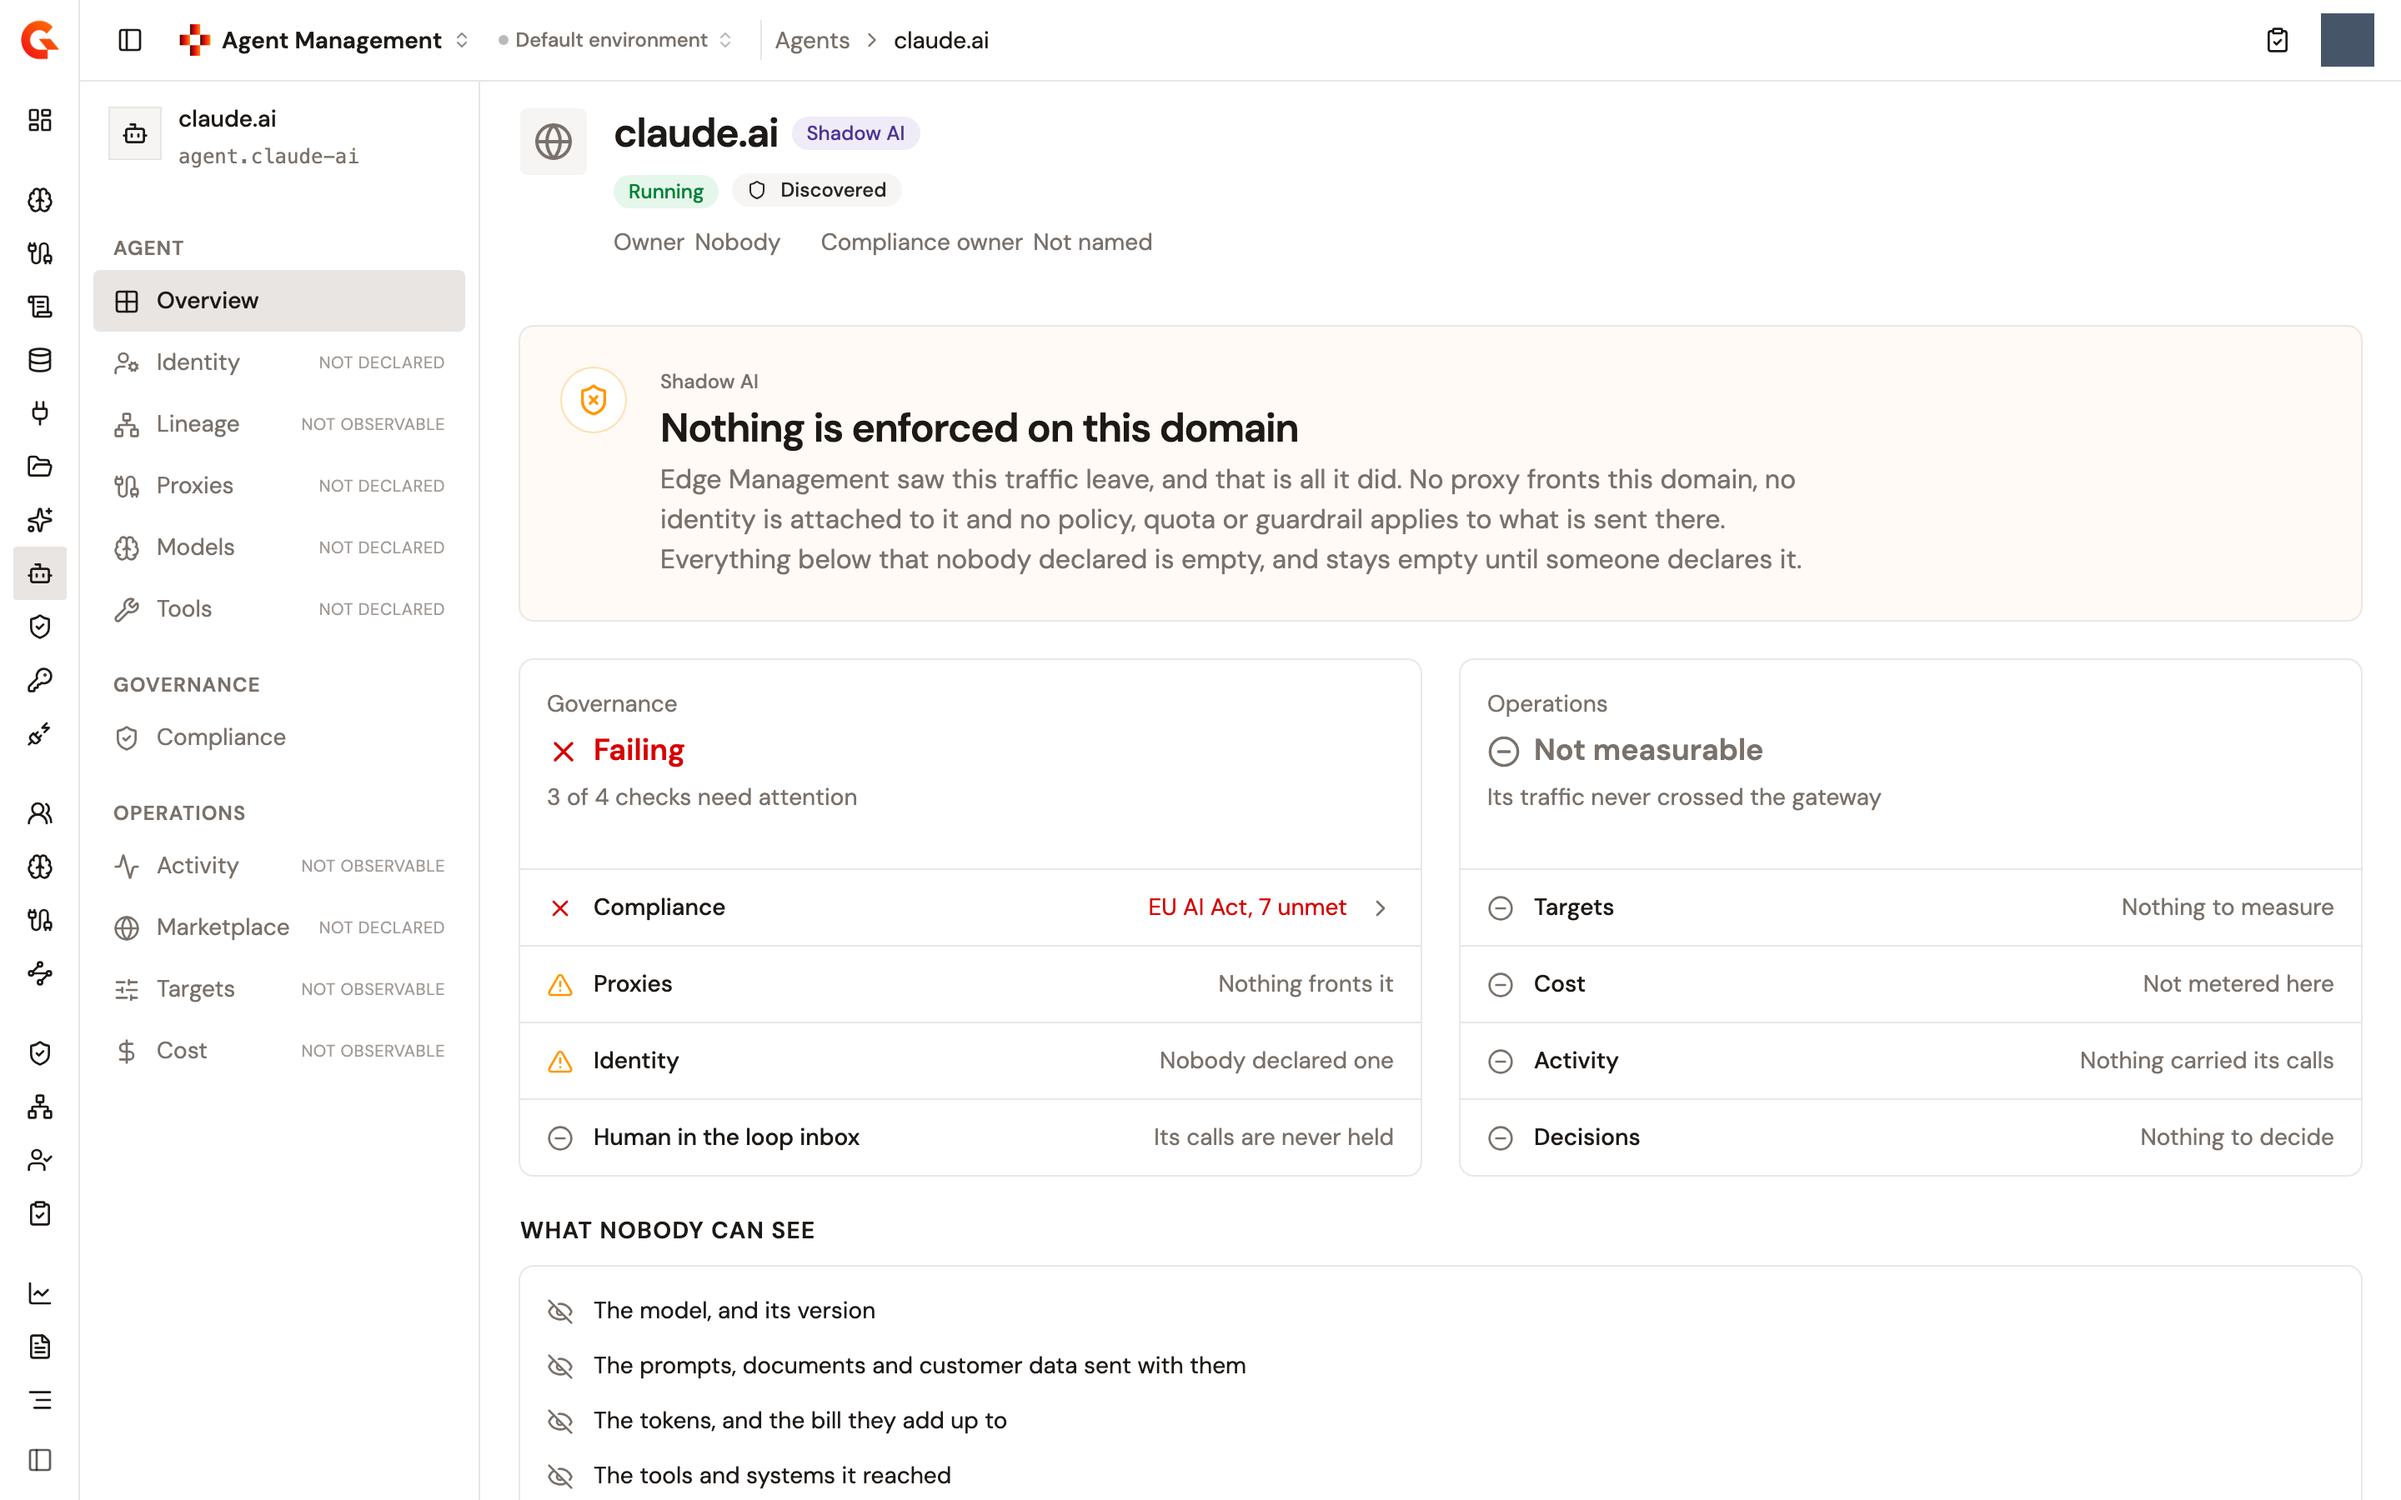
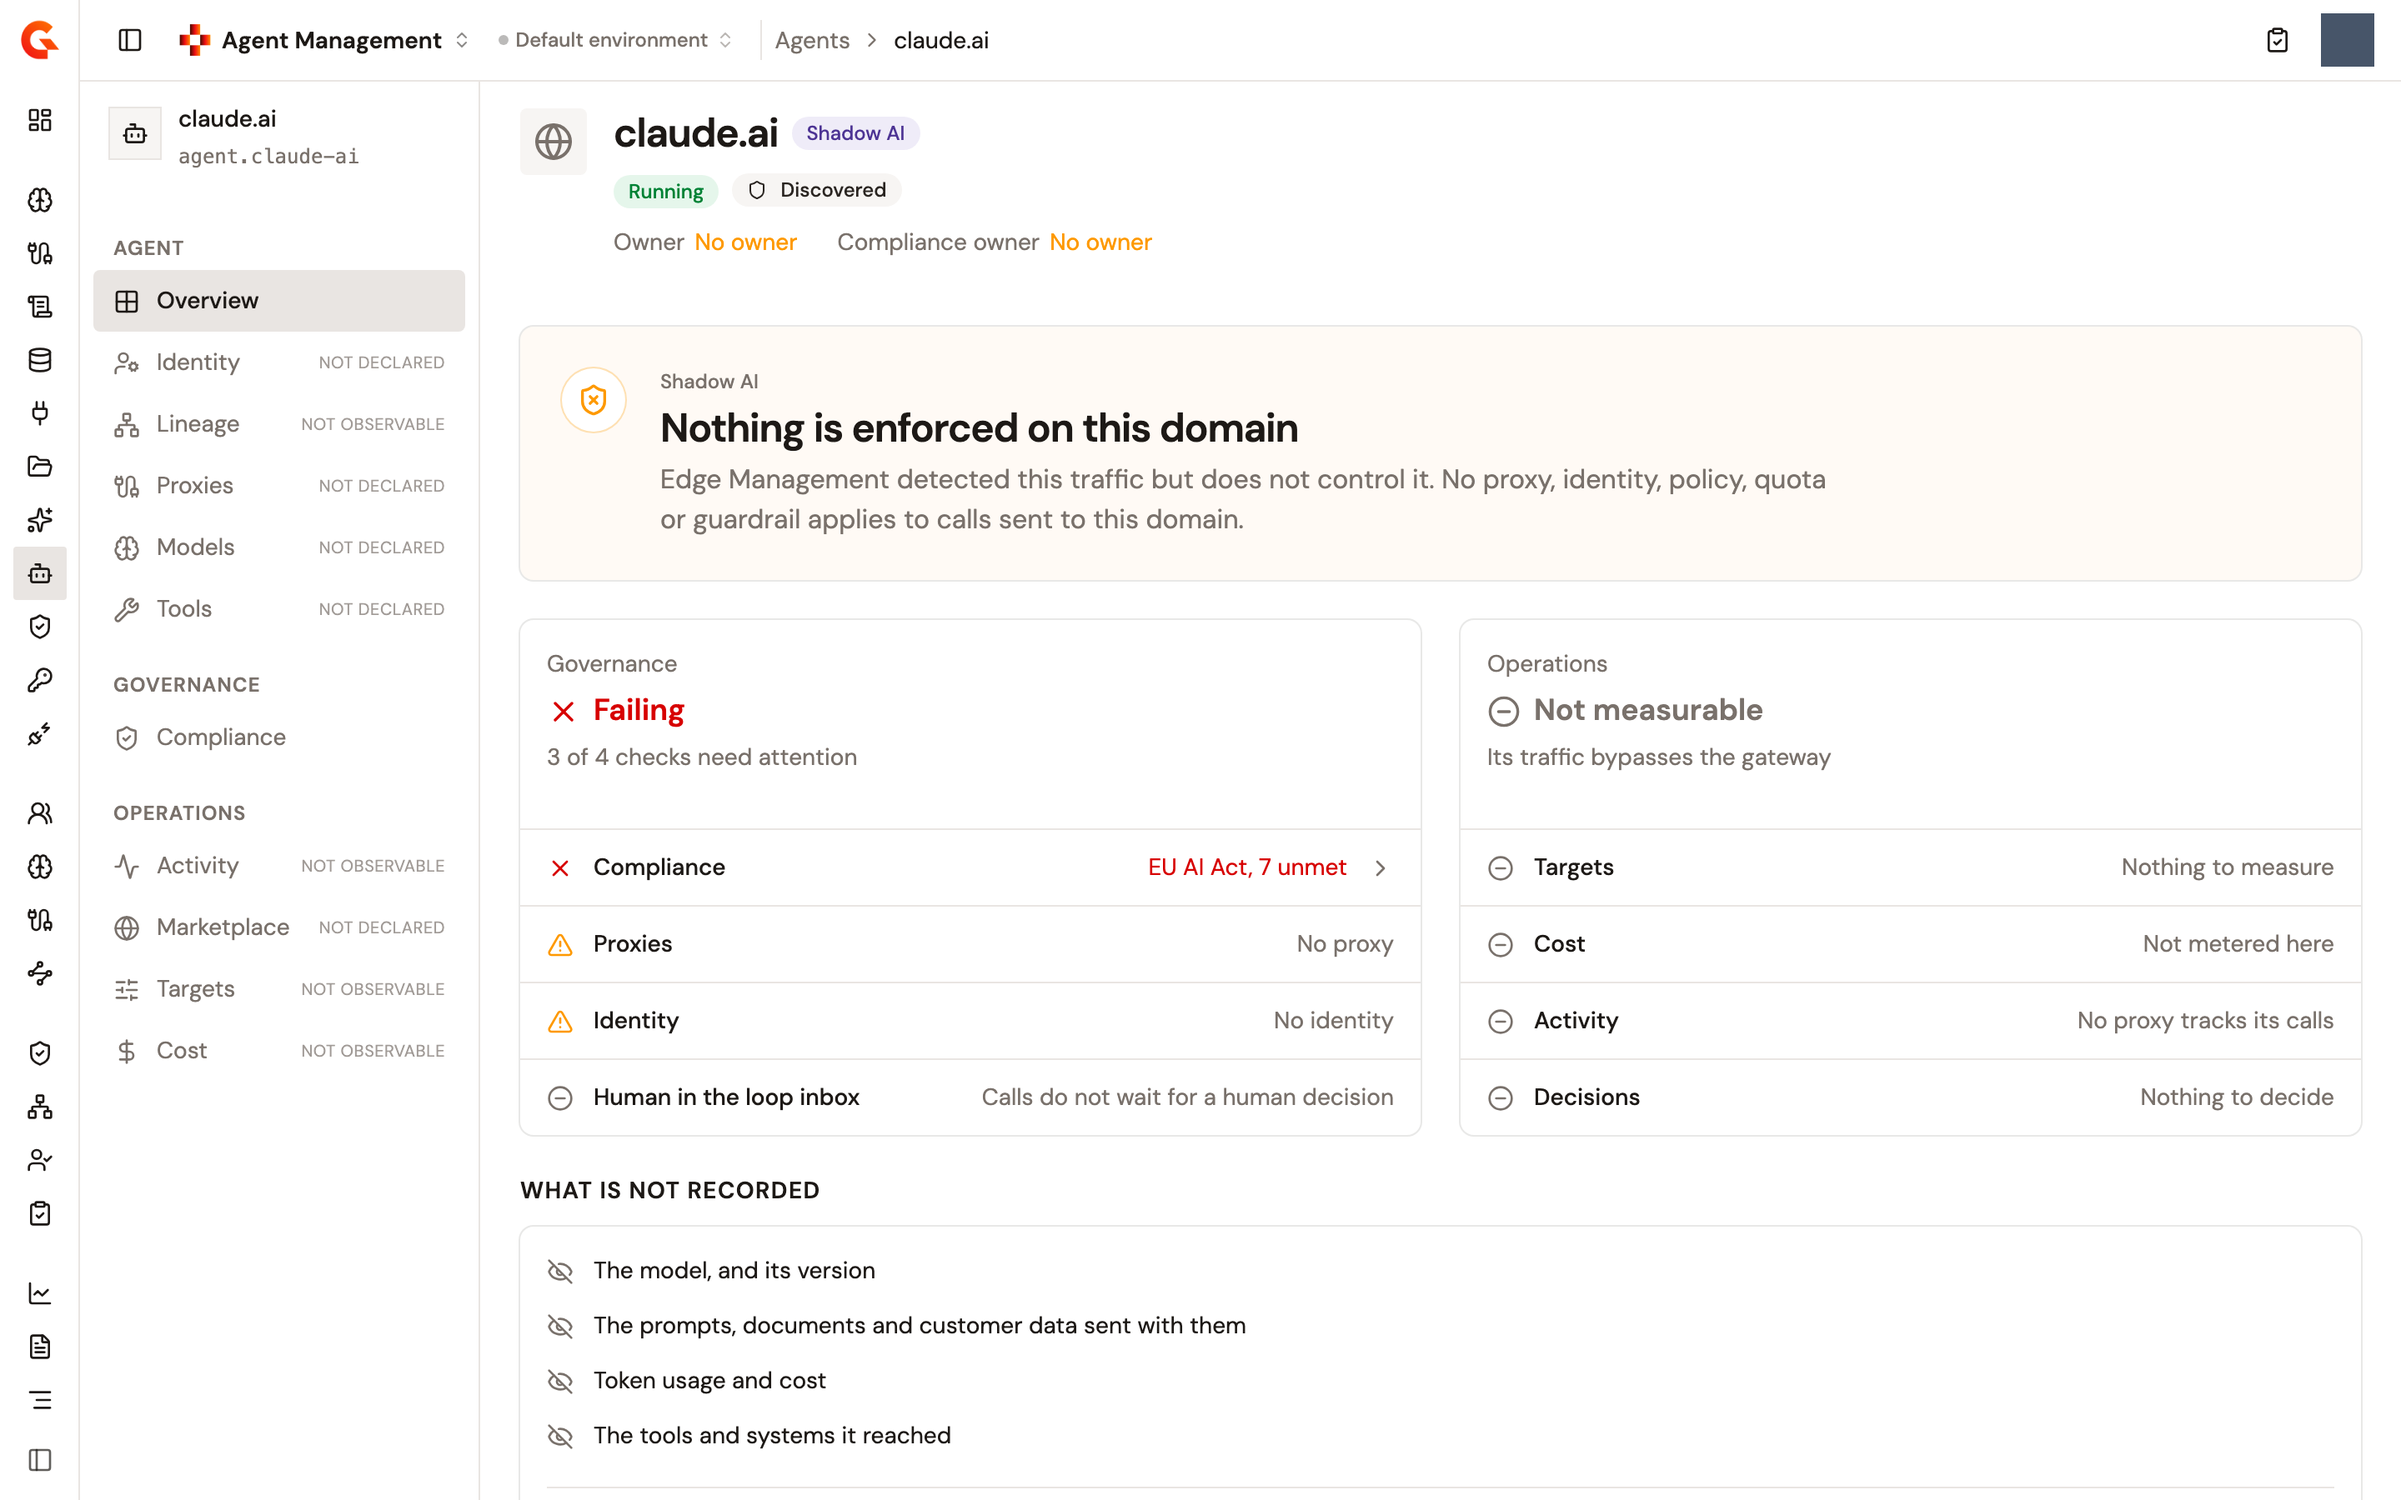
docs(gamma): align the shadow AI agents page with the aim 4.3.0-beta.80 copy (AIAM-672)
aim #917 rewrote the demo-path UI copy and shipped in 4.3.0-beta.80, which the
AMP demo console now loads. Renamed on the page: Nobody, Not named and
Unassigned to No owner; What nobody can see to What is not recorded; the
Compliance notice to Unregistered agent; No read configured to No import
configured; the banner, sidebar, Operations and About wording paraphrased from
the new strings; the list's Compliance column (Not assessed / Passed / Failed)
added. Both screenshots re-captured from that build.

diff --git a/docs/gamma/4.12/agent-management/import/discover-shadow-ai-agents-from-edge-management.md b/docs/gamma/4.12/agent-management/import/discover-shadow-ai-agents-from-edge-management.md
@@ -69,31 +69,31 @@ Three more rules govern when a pass runs:
 
 ## What a synchronization writes
 
-Each detected domain becomes one agent under a source named **Shadow AI**, which Gamma creates in the environment the first time it's needed. On the **Integrations** page, the source appears only under **All sources**, with **No read configured** in its **Imports** column and **Remove** as its only action, because it isn't an integration you connect. Removing the source removes the agents imported through it, and the next pass creates the source and its entries again from the detections it reads. The agent is named after the domain. A run reads at most 500 domains, and treats what it read as the complete set, so an environment with more distinct domains than that has the rest left out and can lose entries on a full pass. A pass that finds the domain again leaves the entry untouched, so the classification you set, the owner you assign, and any other field you write survive every run. A full pass removes the entry once the domain has had no detection for 30 days, and removes the performance targets declared on it at the same time.
+Each detected domain becomes one agent under a source named **Shadow AI**, which Gamma creates in the environment the first time it's needed. On the **Integrations** page, the source appears only under **All sources**, with **No import configured** in its **Imports** column and **Remove** as its only action, because it isn't an integration you connect. Removing the source removes the agents imported through it, and the next pass creates the source and its entries again from the detections it reads. The agent is named after the domain. A run reads at most 500 domains, and treats what it read as the complete set, so an environment with more distinct domains than that has the rest left out and can lose entries on a full pass. A pass that finds the domain again leaves the entry untouched, so the classification you set, the owner you assign, and any other field you write survive every run. A full pass removes the entry once the domain has had no detection for 30 days, and removes the performance targets declared on it at the same time.
 
 ## Find shadow AI agents in the list
 
 1. From the Gamma console sidebar, select **Agent Management**.
 2. In the **Catalog** section of the sidebar, select **Agents**.
 
-In the **Agents** list, the source reads under each agent's name: **Shadow AI** for a detected domain, **Manual** for an agent registered from the console, and the platform's name for an imported one. To list the detected domains alone, open the **Source** filter and select **Shadow AI**. A detected domain reads **Not on the gateway** in the **Gateway state** column, **Unassigned** in the **Owner** column, and **Discovered** in the **Governance** column.
+In the **Agents** list, the source reads under each agent's name: **Shadow AI** for a detected domain, **Manual** for an agent registered from the console, and the platform's name for an imported one. To list the detected domains alone, open the **Source** filter and select **Shadow AI**. A detected domain reads **Not on the gateway** in the **Gateway state** column, **No owner** in the **Owner** column, and **Discovered** in the **Governance** column. The **Compliance** column reads **Not assessed** until an activated framework applies to the domain, **Passed** when it meets every applicable framework, and **Failed** otherwise.
 
 The actions menu at the end of the row offers **View details** and nothing else. A detected domain is neither edited nor removed from the list. Its entry leaves the Catalog when the retention rule removes it, or when its source is removed.
 
-<figure><img src="../.gitbook/assets/gamma-aim-agents-list-shadow-ai.png" alt="The Agents list filtered to the Shadow AI source, with three detected domains reading Shadow AI under their names, Not on the gateway as gateway state, Unassigned as owner, and Discovered as governance"><figcaption><p>The Agents list filtered to the Shadow AI source</p></figcaption></figure>
+<figure><img src="../.gitbook/assets/gamma-aim-agents-list-shadow-ai.png" alt="The Agents list filtered to the Shadow AI source, with three detected domains reading Shadow AI under their names, Not on the gateway as gateway state, No owner as owner, and Discovered as governance"><figcaption><p>The Agents list filtered to the Shadow AI source</p></figcaption></figure>
 
 ## Read a shadow AI agent's page
 
 Click the domain in the **Agents** list to open it. The page is built around having only an address, so it carries less than a registered agent's page:
 
-* The header shows the domain as the title with a **Shadow AI** badge, the **Running** and **Discovered** badges, and the **Owner** row, which reads **Nobody**. A **Compliance owner** row appears beside it when the agent's compliance assessment includes the EU AI Act framework's **Accountable human** control, and reads **Not named** while nobody is named.
-* The sidebar lists the same sections as a registered agent's page. A section nobody declared is marked **Not declared**, and a section the gateway would have to observe is marked **Not observable**. Opening one shows a sentence on why it's empty, for example that nobody declared an identity, so nothing can authenticate as the agent. **Compliance** opens as it does for a registered agent, under a notice that reads **Nobody declared this agent, so it answers none of these controls**. **Overview** is rebuilt for a detected domain, as the next bullets describe. The bar of actions at the top of a registered agent's page isn't shown.
-* A **Shadow AI** banner reads **Nothing is enforced on this domain** and explains that Edge Management saw the traffic leave, and that no proxy, identity, policy, quota, or guardrail applies to it. Under it, the **Governance** card reads **Failing** and the **Operations** card reads **Not measurable**, because the traffic never crossed the gateway.
-* The **What nobody can see** section lists what the gateway never recorded: the model and its version, the prompts, documents, and customer data sent with them, the tokens and the bill they add up to, and the tools and systems it reached.
+* The header shows the domain as the title with a **Shadow AI** badge, the **Running** and **Discovered** badges, and the **Owner** row, which reads **No owner**. A **Compliance owner** row appears beside it when the agent's compliance assessment includes the EU AI Act framework's **Accountable human** control, and it also reads **No owner** while nobody is named.
+* The sidebar lists the same sections as a registered agent's page. A section nobody declared is marked **Not declared**, and a section the gateway would have to observe is marked **Not observable**. Opening one shows a sentence on why it's empty, for example that no identity is declared, so nothing can authenticate as the agent. **Compliance** opens as it does for a registered agent, under a notice titled **Unregistered agent**, which says that Edge Management detected the agent and it was never registered, so no compliance details have been recorded. **Overview** is rebuilt for a detected domain, as the next bullets describe. The bar of actions at the top of a registered agent's page isn't shown.
+* A **Shadow AI** banner reads **Nothing is enforced on this domain** and explains that Edge Management detected the traffic but doesn't control it, so no proxy, identity, policy, quota, or guardrail applies to calls sent to the domain. Under it, the **Governance** card reads **Failing** and the **Operations** card reads **Not measurable**, because its traffic bypasses the gateway.
+* The **What is not recorded** section lists what the gateway never recorded: the model and its version, the prompts, documents, and customer data sent with them, the token usage and cost, and the tools and systems it reached.
 * The **Detected traffic** section holds the traffic that produced the entry.
-* The **About** section opens with a note that devices in your fleet reached the domain directly, bypassing the gateway, and that nobody approved the service. Its card holds five rows: **Entity ID**, **Source**, which reads `edge.shadow-ai`, **Classification**, **Created**, and **Updated**. The **Agent card** section reads **Not declared**, because nothing publishes a card for the domain.
+* The **About** section opens with a note that devices in your fleet reached the domain directly, bypassing the gateway, and that no one has approved the service. Its card holds five rows: **Entity ID**, **Source**, which reads `edge.shadow-ai`, **Classification**, **Created**, and **Updated**. The **Agent card** section reads **Not declared**, because the domain publishes no card.
 
-<figure><img src="../.gitbook/assets/gamma-aim-shadow-agent-page.png" alt="The top of a shadow AI agent's page: the domain as title with the Shadow AI, Running, and Discovered badges, the sidebar with its Not declared and Not observable markers, the Nothing is enforced on this domain banner, the Governance and Operations cards, and the What nobody can see section"><figcaption><p>The top of a shadow AI agent's page</p></figcaption></figure>
+<figure><img src="../.gitbook/assets/gamma-aim-shadow-agent-page.png" alt="The top of a shadow AI agent's page: the domain as title with the Shadow AI, Running, and Discovered badges, the sidebar with its Not declared and Not observable markers, the Nothing is enforced on this domain banner, the Governance and Operations cards, and the What is not recorded section"><figcaption><p>The top of a shadow AI agent's page</p></figcaption></figure>
 
 ### Rate the risk
 
